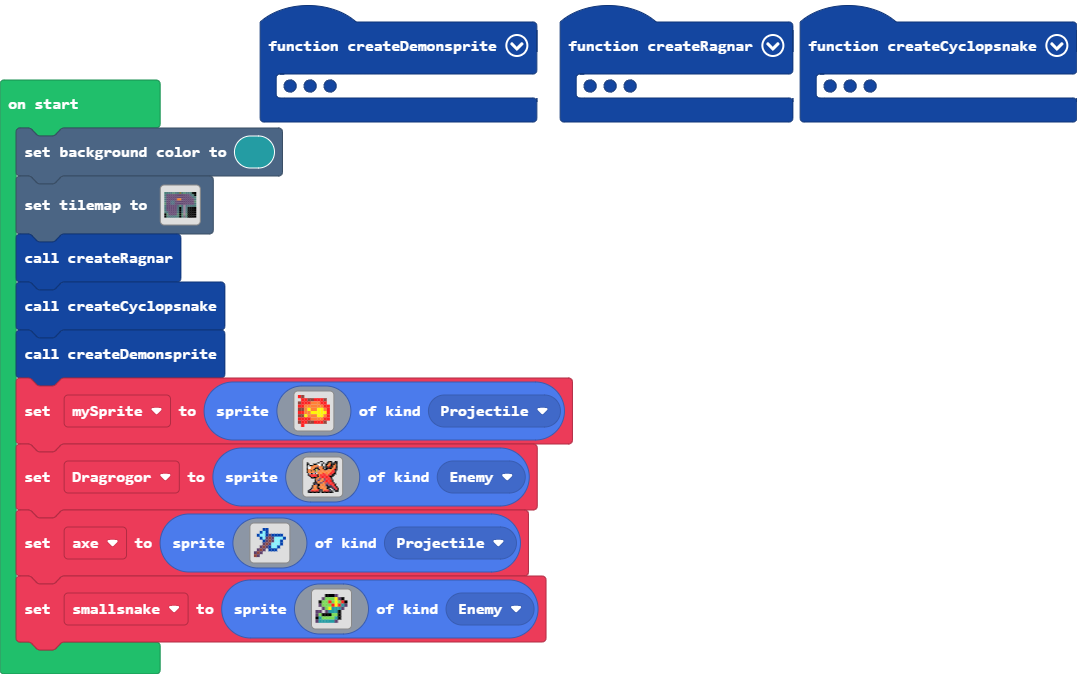
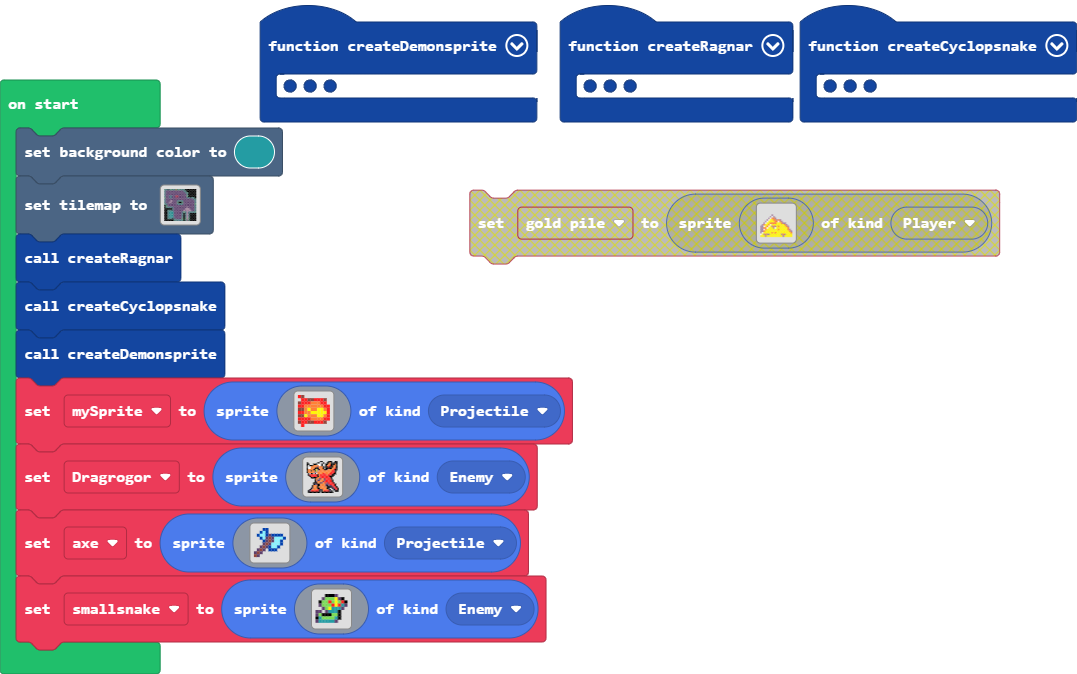
Update main.blocks, main.ts, tilemap.g.jres, tilemap.g.ts, images.g.jres, images.g.ts

Changed region(s): [[0.429, 0.2804, 0.9499, 0.405], [0.1532, 0.2804, 0.1838, 0.3427]]

diff --git a/tilemap.g.ts b/tilemap.g.ts
@@ -21,7 +21,27 @@ namespace myTiles {
     //% fixedInstance jres blockIdentity=images._tile
     export const tile10 = image.ofBuffer(hex``);
     //% fixedInstance jres blockIdentity=images._tile
-    export const tile9 = image.ofBuffer(hex``);
+    export const tile11 = image.ofBuffer(hex``);
+    //% fixedInstance jres blockIdentity=images._tile
+    export const tile12 = image.ofBuffer(hex``);
+    //% fixedInstance jres blockIdentity=images._tile
+    export const tile13 = image.ofBuffer(hex``);
+    //% fixedInstance jres blockIdentity=images._tile
+    export const tile14 = image.ofBuffer(hex``);
+    //% fixedInstance jres blockIdentity=images._tile
+    export const tile15 = image.ofBuffer(hex``);
+    //% fixedInstance jres blockIdentity=images._tile
+    export const tile16 = image.ofBuffer(hex``);
+    //% fixedInstance jres blockIdentity=images._tile
+    export const tile17 = image.ofBuffer(hex``);
+    //% fixedInstance jres blockIdentity=images._tile
+    export const tile18 = image.ofBuffer(hex``);
+    //% fixedInstance jres blockIdentity=images._tile
+    export const tile19 = image.ofBuffer(hex``);
+    //% fixedInstance jres blockIdentity=images._tile
+    export const tile20 = image.ofBuffer(hex``);
+    //% fixedInstance jres blockIdentity=images._tile
+    export const tile21 = image.ofBuffer(hex``);
 
     helpers._registerFactory("tilemap", function(name: string) {
         switch(helpers.stringTrim(name)) {
@@ -82,21 +102,29 @@ namespace myTiles {
 . . . . . . . . . . . . . . . . 
 . . . . . . . . . . . . . . . . 
 `, [myTiles.transparency16], TileScale.Sixteen);
-            case "dungeon room of orion":
[1 lines of base64/hex data omitted]
-2 2 2 2 2 2 2 2 2 2 2 2 2 . . 
-2 . . . . . . . . . . . 2 2 . 
-2 . . . . . . . . . . . . 2 2 
-2 . . . . . . . . . . . . . 2 
-2 . . 2 2 . . . . . . . . . 2 
-2 . . 2 2 . . . . . . . . . 2 
-2 . . . . . 2 2 2 . 2 2 2 2 2 
-2 . . . . . 2 . 2 . 2 . . . . 
-2 . . . . . 2 . 2 . 2 . . . . 
-2 2 . . . . 2 . 2 . 2 . . . . 
-. 2 . . . . 2 . 2 . 2 . . . . 
-. 2 2 2 2 2 2 . 2 2 2 . . . . 
-`, [myTiles.transparency16,sprites.dungeon.greenOuterNorthWest,sprites.dungeon.greenOuterNorth0,sprites.dungeon.greenOuterNorthEast,sprites.dungeon.greenOuterEast0,sprites.dungeon.greenOuterSouthWest,sprites.dungeon.greenOuterSouth1,sprites.dungeon.greenOuterSouthEast,sprites.dungeon.greenOuterWest0,sprites.dungeon.greenOuterEast2,sprites.dungeon.greenOuterNorth2,sprites.dungeon.greenOuterWest2,sprites.dungeon.greenInnerNorthEast,sprites.dungeon.greenOuterWest1,sprites.dungeon.greenOuterSouth0,sprites.dungeon.greenInnerNorthWest,sprites.dungeon.greenInnerSouthWest,sprites.dungeon.greenInnerSouthEast,sprites.dungeon.darkGroundNorthWest0,sprites.dungeon.darkGroundNorth,sprites.dungeon.darkGroundWest,sprites.dungeon.darkGroundNorthEast0,sprites.dungeon.darkGroundEast,sprites.dungeon.darkGroundCenter,sprites.dungeon.darkGroundSouth,sprites.dungeon.darkGroundSouthWest0,sprites.dungeon.darkGroundSouthEast0,sprites.dungeon.darkGroundNorthEast1,sprites.dungeon.darkGroundSouthWest1,sprites.dungeon.darkGroundNorthWest1,sprites.dungeon.doorClosedSouth,sprites.dungeon.floorDarkDiamond,myTiles.tile6,sprites.dungeon.hazardLava1,sprites.dungeon.darkGroundSouthEast1,myTiles.tile7,sprites.dungeon.floorDark2,sprites.dungeon.greenOuterSouth2,myTiles.tile9,myTiles.tile10], TileScale.Sixteen);
+            case "dungeon room of memes and memories":
[1 lines of base64/hex data omitted]
+2222222222222.......
+2...........22......
+2............22.....
+2.............2.....
+2..22.........2.....
+2..22.........22222.
+2.................22
+2.......2222.......2
+2.......2..2.......2
+22......2222.......2
+.2.................2
+.22222.............2
+.....2.............2
+..2222.............2
+..2........222.22222
+..2........2.2.2....
+..2........2.2.2....
+..2........2.2.2....
+..22222....2.2.2....
+......222222.222....
+`, [myTiles.transparency16,sprites.dungeon.greenOuterNorthWest,sprites.dungeon.greenOuterNorth0,sprites.dungeon.greenOuterNorthEast,sprites.dungeon.greenOuterEast0,sprites.dungeon.greenOuterSouthWest,sprites.dungeon.greenOuterSouth1,sprites.dungeon.greenOuterSouthEast,sprites.dungeon.greenOuterWest0,sprites.dungeon.greenOuterEast2,sprites.dungeon.greenOuterNorth2,sprites.dungeon.greenOuterWest2,sprites.dungeon.greenInnerNorthEast,sprites.dungeon.greenOuterWest1,sprites.dungeon.greenOuterSouth0,sprites.dungeon.greenInnerNorthWest,sprites.dungeon.greenInnerSouthWest,sprites.dungeon.greenInnerSouthEast,sprites.dungeon.darkGroundNorthWest0,sprites.dungeon.darkGroundNorth,sprites.dungeon.darkGroundWest,sprites.dungeon.darkGroundNorthEast0,sprites.dungeon.darkGroundEast,sprites.dungeon.darkGroundCenter,sprites.dungeon.darkGroundSouth,sprites.dungeon.darkGroundSouthWest0,sprites.dungeon.darkGroundSouthEast0,sprites.dungeon.darkGroundNorthEast1,sprites.dungeon.darkGroundSouthWest1,sprites.dungeon.darkGroundNorthWest1,sprites.dungeon.doorClosedSouth,sprites.dungeon.floorDarkDiamond,myTiles.tile6,sprites.dungeon.darkGroundSouthEast1,myTiles.tile7,sprites.dungeon.floorDark2,sprites.dungeon.greenOuterSouth2,myTiles.tile11,myTiles.tile12,sprites.dungeon.greenOuterNorth1,sprites.dungeon.floorDark3,sprites.dungeon.floorDark0,sprites.dungeon.floorDark1,myTiles.tile8,myTiles.tile13,myTiles.tile14,myTiles.tile15,myTiles.tile16,myTiles.tile17,myTiles.tile18,myTiles.tile19,myTiles.tile20,myTiles.tile21], TileScale.Sixteen);
         }
         return null;
     })
@@ -122,8 +150,28 @@ namespace myTiles {
             case "tile8":return tile8;
             case "myTile7":
             case "tile10":return tile10;
-            case "myTile6":
-            case "tile9":return tile9;
+            case "poision-A":
+            case "tile11":return tile11;
+            case "myTile9":
+            case "tile12":return tile12;
+            case "myTile8":
+            case "tile13":return tile13;
+            case "myTile10":
+            case "tile14":return tile14;
+            case "myTile11":
+            case "tile15":return tile15;
+            case "myTile12":
+            case "tile16":return tile16;
+            case "myTile13":
+            case "tile17":return tile17;
+            case "myTile14":
+            case "tile18":return tile18;
+            case "myTile15":
+            case "tile19":return tile19;
+            case "myTile16":
+            case "tile20":return tile20;
+            case "myTile17":
+            case "tile21":return tile21;
         }
         return null;
     })

diff --git a/images.g.ts b/images.g.ts
@@ -125,6 +125,27 @@ f 5 5 b 1 1 b 5 a 5 a f . . c .
 . . c 4 3 3 3 3 3 5 4 4 c . . . 
 . . . c c c c c c c c c . . . . 
 `;
+            case "image8":
+            case "pile of gold":return img`
+....................
+....................
+....................
+....................
+.......b............
+......b1b...........
+.....b144b..........
+....b15544b4b.......
+...b155554414b......
+..b15544445554bb....
+.b45541555555554b...
+bb15415b4b5455554b..
+bb441555b155555554..
+bb1455555554555554b.
+bb45555555555555554b
+b1555554545555555554
+15b4bb5555555b4b5555
+555b5555555555b55555
+`;
         }
         return null;
     })

diff --git a/main.ts b/main.ts
@@ -15,7 +15,7 @@ let demonSprite: Sprite = null
 let ragnar: Sprite = null
 let cyclopsnake: Sprite = null
 scene.setBackgroundColor(6)
-tiles.setTilemap(tilemap`dungeon room of orion`)
+tiles.setTilemap(tilemap`dungeon room of memes and memories`)
 createRagnar()
 createCyclopsnake()
 createDemonsprite()
